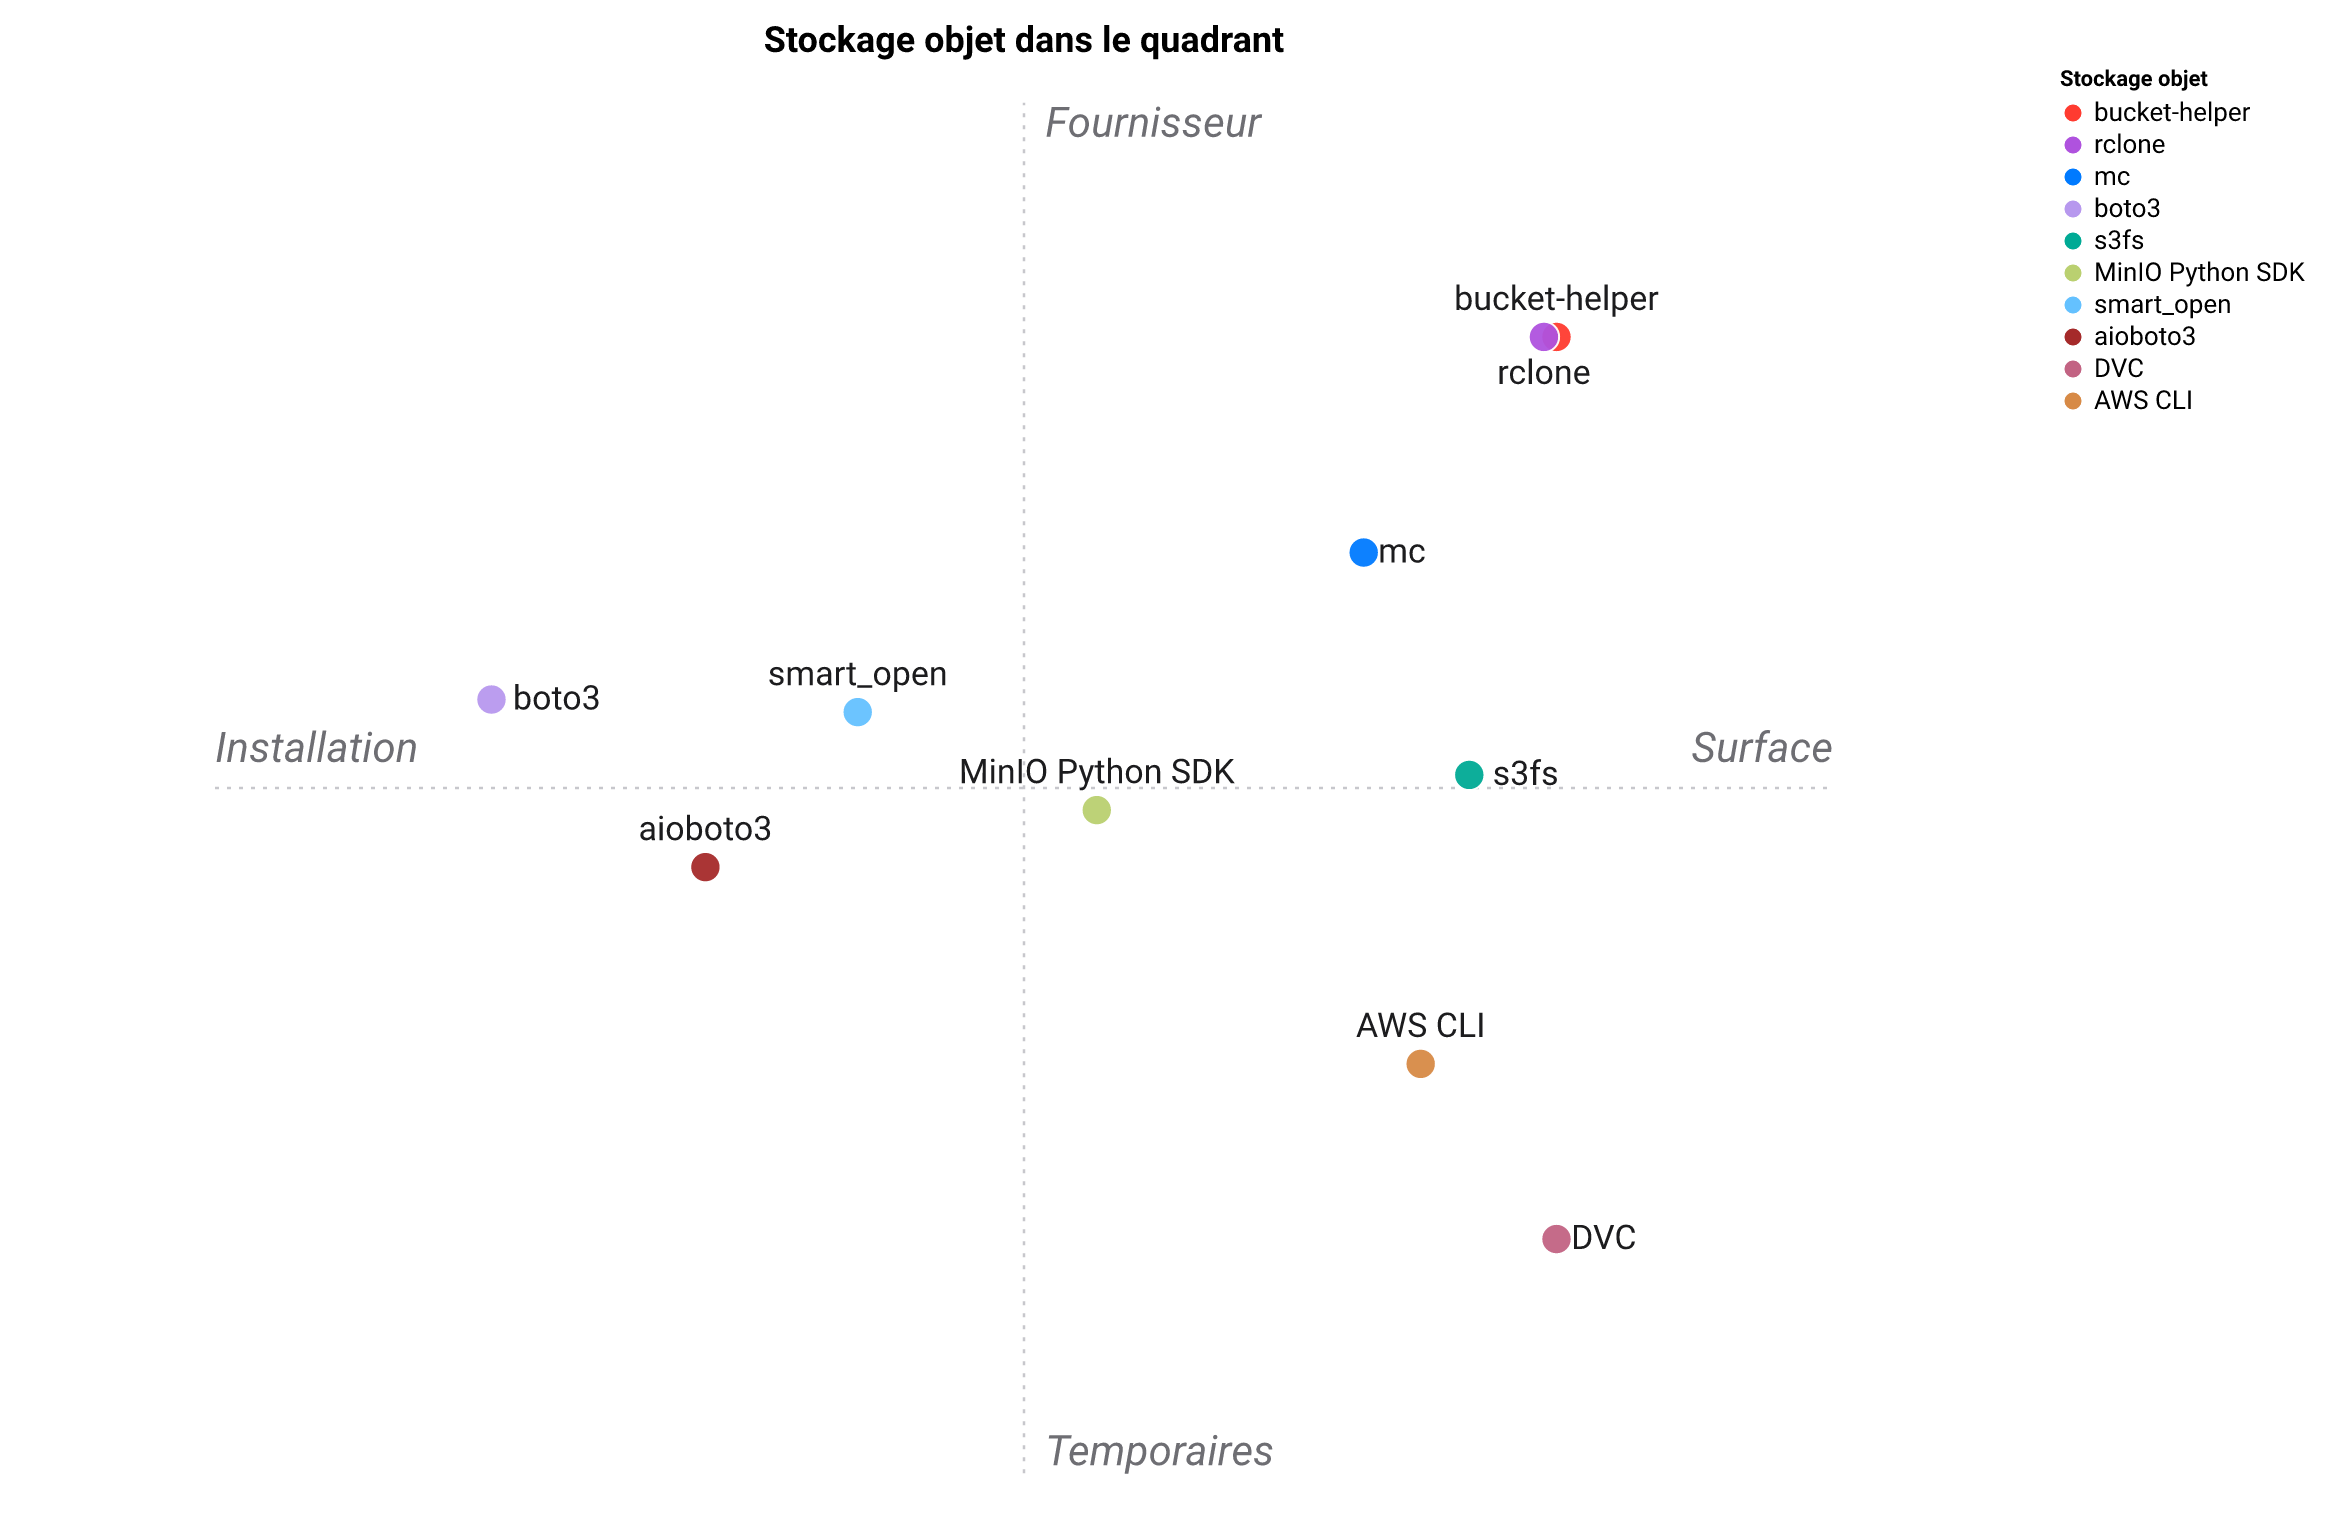
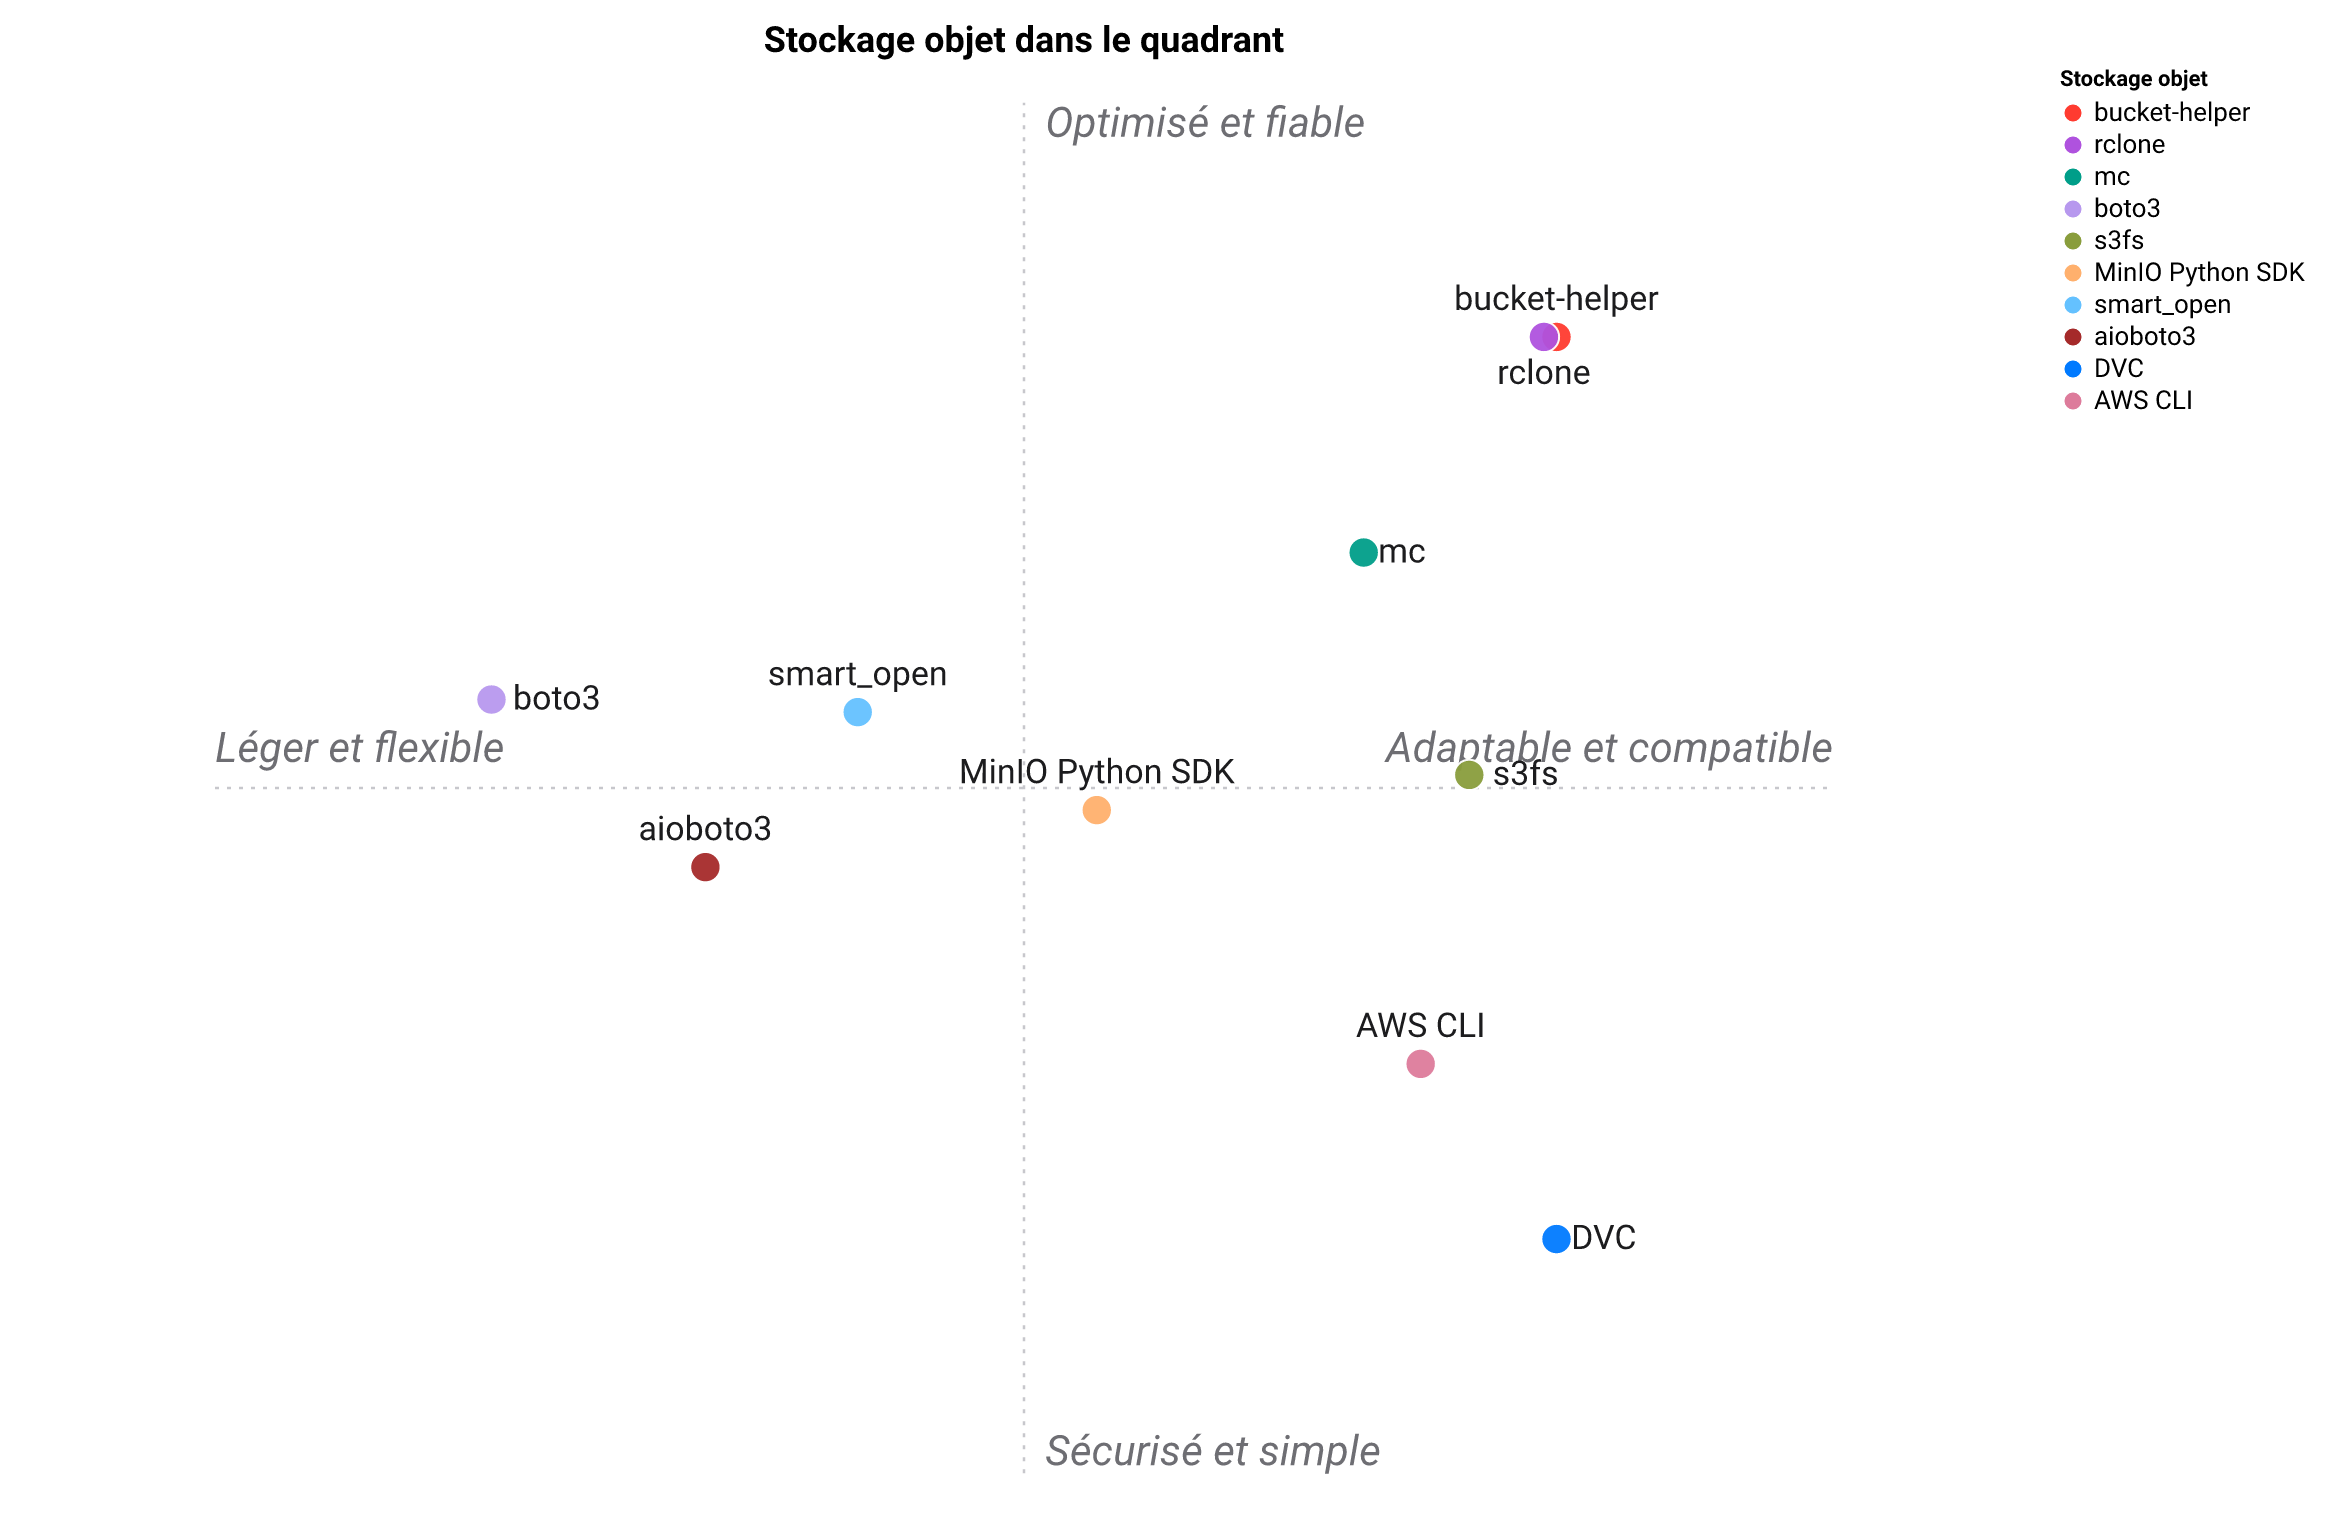
Landscape: CSV as source of truth; regenerate table/figure/commentary
- assets/landscape.csv & assets/paysage.csv are now the committed source of
  truth (integer ratings + domain label in the first cell). The star table, the
  positioning figure and the commentary in LANDSCAPE.md / PAYSAGE.md are
  regenerated from them by scripts/gen_landscape.py (standingpoint, LLM axis
  names), inside managed <!-- TABLE --> / <!-- FIGURE --> marker regions.
- Axis names use the LLM plain-word poles.

diff --git a/PAYSAGE.md b/PAYSAGE.md
@@ -16,6 +16,7 @@ la note reflète seulement l'adéquation à *ce* créneau.
 
 ## En un coup d'œil
 
+<!-- TABLE:START -->
 | Stockage objet | Multi-fournisseur | Identifiants par fichier de config | CRUD simple | Clés temporaires en attente-partage | URL compatibles S3 | Multi-surface | Installation légère |
 | --- | :---: | :---: | :---: | :---: | :---: | :---: | :---: |
 | **bucket-helper** | ⭐⭐⭐⭐⭐ | ⭐⭐⭐⭐⭐ | ⭐⭐⭐⭐⭐ | ⭐⭐⭐⭐⭐ | ⭐⭐⭐⭐⭐ | ⭐⭐⭐⭐⭐ | ⭐⭐⭐⭐⭐ |
@@ -28,14 +29,17 @@ la note reflète seulement l'adéquation à *ce* créneau.
 | rclone | ⭐⭐⭐⭐⭐ | ⭐⭐⭐⭐ | ⭐⭐⭐⭐⭐ | ⭐ | ⭐⭐⭐ | ⭐⭐⭐ | ⭐⭐⭐⭐⭐ |
 | DVC | ⭐⭐⭐ | ⭐⭐⭐ | ⭐⭐ | ⭐ | ⭐⭐ | ⭐⭐ | ⭐⭐⭐ |
 | smart_open | ⭐⭐⭐⭐ | ⭐⭐ | ⭐⭐⭐ | ⭐ | ⭐⭐⭐ | ⭐ | ⭐⭐⭐⭐⭐ |
+<!-- TABLE:END -->
 
 ## Carte de positionnement
 
+<!-- FIGURE:START -->
 Représentation 2D du tableau ci-dessus.
 
 ![Carte de positionnement](https://raw.githubusercontent.com/warith-harchaoui/bucket-helper/main/assets/paysage.png)
 
-La carte est un résumé en 2D des 7 critères : à lire comme une forme, pas comme un classement. « bucket-helper » se situe dans le coin en haut à droite. Les axes se lisent **Horizontal — Installation ↔ Surface** et **Vertical — Temporaires ↔ Fournisseur**.
+La carte est un résumé en 2D des 7 critères : à lire comme une forme, pas comme un classement. « bucket-helper » se situe dans le coin en haut à droite. Les axes se lisent **Horizontal — Léger et flexible ↔ Adaptable et compatible** et **Vertical — Sécurisé et simple ↔ Optimisé et fiable**.
+<!-- FIGURE:END -->
 
 ## Positionnement
 

diff --git a/LANDSCAPE.md b/LANDSCAPE.md
@@ -14,6 +14,7 @@ just reflects fit to *this* niche.
 
 ## At a glance
 
+<!-- TABLE:START -->
 | Object Storage | Multi-provider | Config-file credentials | Simple CRUD | Stage-and-share temp keys | S3-compatible URLs | Multi-surface | Light install |
 | --- | :---: | :---: | :---: | :---: | :---: | :---: | :---: |
 | **bucket-helper** | ⭐⭐⭐⭐⭐ | ⭐⭐⭐⭐⭐ | ⭐⭐⭐⭐⭐ | ⭐⭐⭐⭐⭐ | ⭐⭐⭐⭐⭐ | ⭐⭐⭐⭐⭐ | ⭐⭐⭐⭐⭐ |
@@ -26,14 +27,17 @@ just reflects fit to *this* niche.
 | rclone | ⭐⭐⭐⭐⭐ | ⭐⭐⭐⭐ | ⭐⭐⭐⭐⭐ | ⭐ | ⭐⭐⭐ | ⭐⭐⭐ | ⭐⭐⭐⭐⭐ |
 | DVC | ⭐⭐⭐ | ⭐⭐⭐ | ⭐⭐ | ⭐ | ⭐⭐ | ⭐⭐ | ⭐⭐⭐ |
 | smart_open | ⭐⭐⭐⭐ | ⭐⭐ | ⭐⭐⭐ | ⭐ | ⭐⭐⭐ | ⭐ | ⭐⭐⭐⭐⭐ |
+<!-- TABLE:END -->
 
 ## Positioning map
 
+<!-- FIGURE:START -->
 2D representation of the table above.
 
 ![Positioning map](https://raw.githubusercontent.com/warith-harchaoui/bucket-helper/main/assets/landscape.png)
 
-The map is a 2-D summary of the seven criteria, so read it as a shape, not a scoreboard. `bucket-helper` is at the top-right corner. The axes read **Horizontal — Install ↔ Surface** and **Vertical — Stage ↔ Provider**.
+The map is a 2-D summary of the seven criteria, so read it as a shape, not a scoreboard. `bucket-helper` is at the top-right corner. The axes read **Horizontal — Versatile ↔ Seamless** and **Vertical — Secure ↔ Optimized**.
+<!-- FIGURE:END -->
 
 ## Positioning
 
